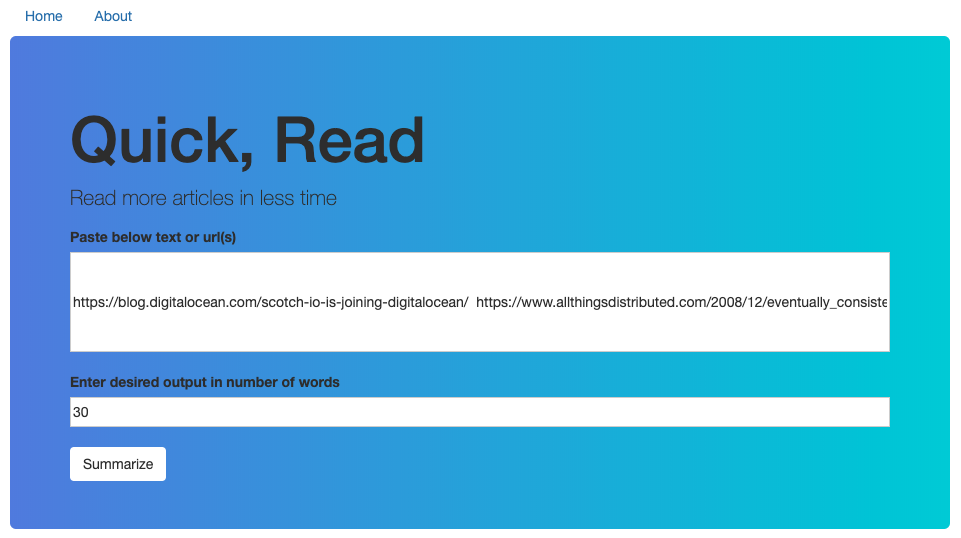
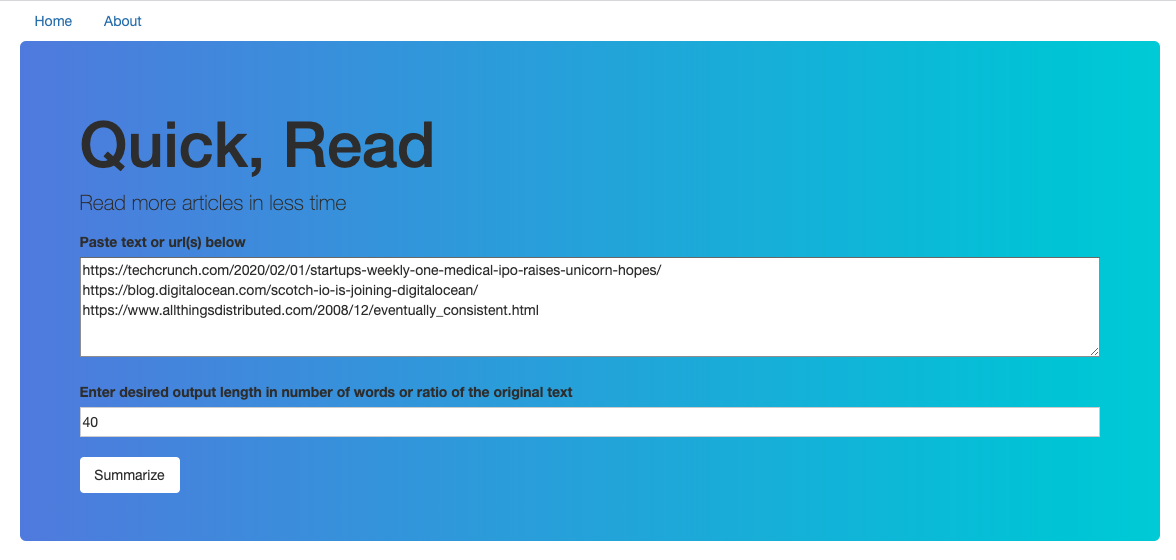
edit markdown

diff --git a/app/views.py b/app/views.py
@@ -21,7 +21,7 @@ app.config['SECRET_KEY'] = SECRET_KEY
 
 class ReadingForm(FlaskForm):
     """input form"""
-    input_txt = StringField('Paste below text or url(s)',
+    input_txt = StringField('Paste text or url(s) below',
                             [validators.required()], widget=TextArea(),
                             render_kw={"style": "width: 100%; height: 100px"})
     output_len = StringField('Enter desired output length in number of words or ratio of the original text',

diff --git a/README.md b/README.md
@@ -11,6 +11,18 @@ Accepted formats include text and html
 
 [Demo App](https://flask-266401.appspot.com/)
 
+## Usage
+
+Sample input for articles
+
+1. Raw text, or
+2. A list of webpages, including those with .txt endings. pdf, ppt and non-textual pages are currently not supported.
+
+Sample setting for desired output length
+
+1. Number of words (e.g. 50) each article will be summarized in, or
+2. Ratio of summarization (e.g. 0.2)
+
 ## Set up
 
 To run it locally, git clone this repo, cd into the folder, set up virtual environment
